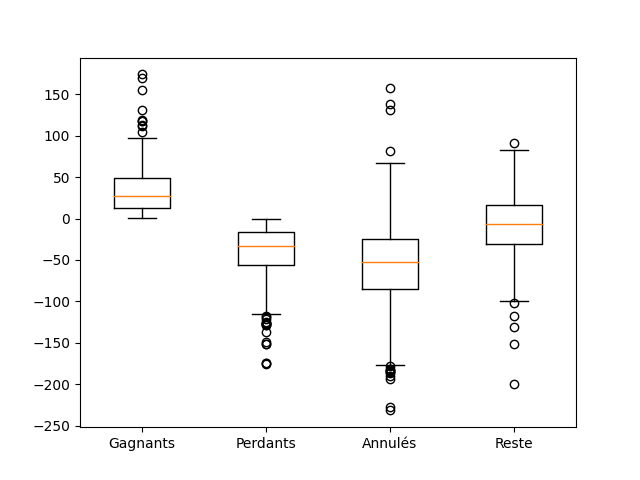
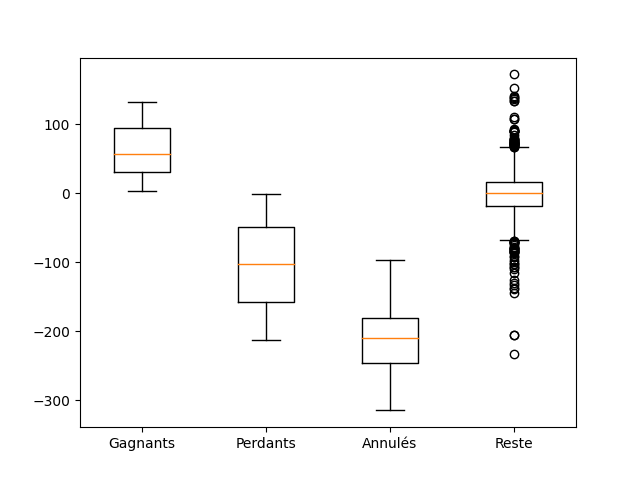
dict timeouts is filling correctly

diff --git a/main.py b/main.py
@@ -46,6 +46,16 @@ else:
 
 
 
+if(os.path.exists('files/'+sub_folders+'id_cyclists_crossed.tab')):
+    with open('files/'+sub_folders+'id_cyclists_crossed.tab', 'rb') as infile:
+        tab_id_cyclists_crossed = pickle.load(infile)
+
+    for i in range(len(tab_id_cyclists_crossed)-1):
+        for j in range(i+1, len(tab_id_cyclists_crossed)):
+            print(i,j, len(set(tab_id_cyclists_crossed[i])&set(tab_id_cyclists_crossed[j]))/len(tab_id_cyclists_crossed[i]))
+
+
+
 
 
 if 'SUMO_HOME' in os.environ:
@@ -215,6 +225,7 @@ else:
 
 
 print(dict_timeouts)
+print(len(dict_timeouts))
 
 
 structure = Structure("237920408#2", "207728319#9", edges, net, dict_shortest_path, dict_cyclists, traci, dict_edges_index, model,\
@@ -255,7 +266,7 @@ while(len(dict_cyclists) != 0 or id<=num_cyclists):
     if(int(id)==max_num_cyclists_same_time and not first_spawned_struct_checked and structure.open):
         first_spawned_struct_checked = True
         for i in dict_cyclists:
-            if(not use_model or not i in dict_timeouts or dict_timeouts[i]["actual"] <= 0):
+            if(use_model or not i in dict_timeouts or dict_timeouts[i]["actual"] <= 0):
                 structure.check_for_candidates(step, edges, id=i, force_candidature=force_candidature)
     path=None
     if(new_scenario):
@@ -310,27 +321,33 @@ while(len(dict_cyclists) != 0 or id<=num_cyclists):
                     if(dict_cyclists[i].finish_step>tab_scenario[int(dict_cyclists[i].id)]["finish_step"]):
                         target = torch.Tensor([0])
                         if(dict_cyclists[i].id not in dict_timeouts):
-                            dict_timeouts[dict_cyclists[i].id] = {"max": 1, "actual": 1, "last_max": -1, "last_actual": -1}
+                            dict_timeouts[dict_cyclists[i].id] = {"max": 2, "actual": -1, "last_max": -1, "last_actual": -1}
+                            dict_timeouts[dict_cyclists[i].id]["actual"] = randint(1, dict_timeouts[dict_cyclists[i].id]["max"])
+                            
                         else:
                             dict_timeouts[dict_cyclists[i].id]["last_max"] = dict_timeouts[dict_cyclists[i].id]["max"]
-                            dict_timeouts[dict_cyclists[i].id]["max"] += 2
+                            dict_timeouts[dict_cyclists[i].id]["max"] *= 2
                             dict_timeouts[dict_cyclists[i].id]["last_actual"] = dict_timeouts[dict_cyclists[i].id]["actual"]
                             dict_timeouts[dict_cyclists[i].id]["actual"] = randint(1, dict_timeouts[dict_cyclists[i].id]["max"])
                     else:
                         target = torch.Tensor([1])
-                        if(dict_cyclists[i].id in dict_timeouts):
-                            dict_timeouts[dict_cyclists[i].id]["last_max"] = dict_timeouts[dict_cyclists[i].id]["max"]
-                            dict_timeouts[dict_cyclists[i].id]["max"] = 1
+                        if(dict_cyclists[i].id not in dict_timeouts):
+                            dict_timeouts[dict_cyclists[i].id] = {"max": 1, "actual": 0, "last_max": -1, "last_actual": -1}
+                        else:
                             dict_timeouts[dict_cyclists[i].id]["last_actual"] = dict_timeouts[dict_cyclists[i].id]["actual"]
                             dict_timeouts[dict_cyclists[i].id]["actual"] = 0
+                            dict_timeouts[dict_cyclists[i].id]["last_max"] = dict_timeouts[dict_cyclists[i].id]["max"]
+                            dict_timeouts[dict_cyclists[i].id]["max"] = 1
                 else:
                     dict_structure_uses["not_used"].append(i)  
-                    if(dict_cyclists[i].id in dict_timeouts and dict_timeouts[dict_cyclists[i].id]["actual"]>0):
-                        dict_timeouts[dict_cyclists[i].id]["actual"] -= 1
+                    if(dict_cyclists[i].id in dict_timeouts):
+                        if(dict_timeouts[dict_cyclists[i].id]["actual"]>0):
+                            dict_timeouts[dict_cyclists[i].id]["actual"] -= 1
+                    else:
+                        dict_timeouts[dict_cyclists[i].id] = {"max": 1, "actual": 0, "last_max": -1, "last_actual": -1}
+
                     if(i in structure.dict_model_input):
                         target = torch.Tensor([1])
-                    elif(not use_model):
-                        dict_timeouts[dict_cyclists[i].id] = {"max": 1, "actual": 0, "last_max": -1, "last_actual": -1}
 
 
                 if(i in structure.dict_model_input and target != None):
@@ -399,11 +416,12 @@ if(not new_scenario):
 
 
         if(learning):
-            
+
             if(not os.path.exists("files/"+sub_folders)):
                 os.makedirs("files/"+sub_folders)
                 tab_num_cycl = [[], []]
                 tab_time_diff = []
+                tab_id_cyclists_crossed = []
                 if(use_model):
                     tab_mean_loss = []
             else:
@@ -411,6 +429,8 @@ if(not new_scenario):
                     tab_num_cycl = pickle.load(infile)
                 with open('files/'+sub_folders+'time_diff.tab', 'rb') as infile:
                     tab_time_diff = pickle.load(infile)
+                with open('files/'+sub_folders+'id_cyclists_crossed.tab', 'rb') as infile:
+                    tab_id_cyclists_crossed = pickle.load(infile)
                 if(use_model):
                     with open('files/'+sub_folders+'mean_loss.tab', 'rb') as infile:
                         tab_mean_loss = pickle.load(infile)
@@ -424,8 +444,9 @@ if(not new_scenario):
             tab_num_cycl[0].append(structure.num_cyclists_crossed)
             tab_num_cycl[1].append(structure.num_cyclists_canceled)
             tab_time_diff.append(mean_diff_finish_step)
+            tab_id_cyclists_crossed.append(structure.tab_id_cyclists_crossed)
 
-            print(tab_num_cycl[0], tab_num_cycl[1], tab_time_diff)
+            print(tab_num_cycl[0], tab_num_cycl[1], tab_time_diff, len(tab_id_cyclists_crossed))
 
             plt.clf()
             plt.plot(tab_time_diff)
@@ -441,6 +462,8 @@ if(not new_scenario):
                 pickle.dump(tab_num_cycl, outfile)
             with open('files/'+sub_folders+'time_diff.tab', 'wb') as outfile:
                 pickle.dump(tab_time_diff, outfile)
+            with open('files/'+sub_folders+'id_cyclists_crossed.tab', 'wb') as outfile:
+                pickle.dump(tab_id_cyclists_crossed, outfile)
 
             if(use_model and save_model and len(structure.list_loss) != 0):
                 print(tab_mean_loss)

diff --git a/Structure.py b/Structure.py
@@ -67,6 +67,8 @@ class Structure:
         self.num_cyclists_crossed = 0
         self.num_cyclists_canceled = 0
 
+        self.tab_id_cyclists_crossed = []
+
         self.open = open
         self.time_travel_multiplier = time_travel_multiplier
 
@@ -88,7 +90,7 @@ class Structure:
             if(self.module_traci.vehicle.getSpeed(i)<= 1 and i not in self.id_cyclists_waiting\
             and i not in self.id_cyclists_crossing_struct and self.dict_cyclists[i].struct_candidate):
                 self.id_cyclists_waiting.append(i)
-                self.dict_cyclists[i].step_cancel_struct_candidature = step+self.dict_cyclists[i].estimated_time_diff*1.5
+                self.dict_cyclists[i].step_cancel_struct_candidature = step+200
                 #print(i, "waiting")
 
         if(len(self.id_cyclists_waiting)>=self.min_group_size):
@@ -101,6 +103,7 @@ class Structure:
                 #print(i, "crossing")
                 self.id_cyclists_crossing_struct.append(i)
                 self.num_cyclists_crossed += 1
+                self.tab_id_cyclists_crossed.append(i)
             self.id_cyclists_waiting = []
 
             for i in self.id_cyclists_crossing_struct:
